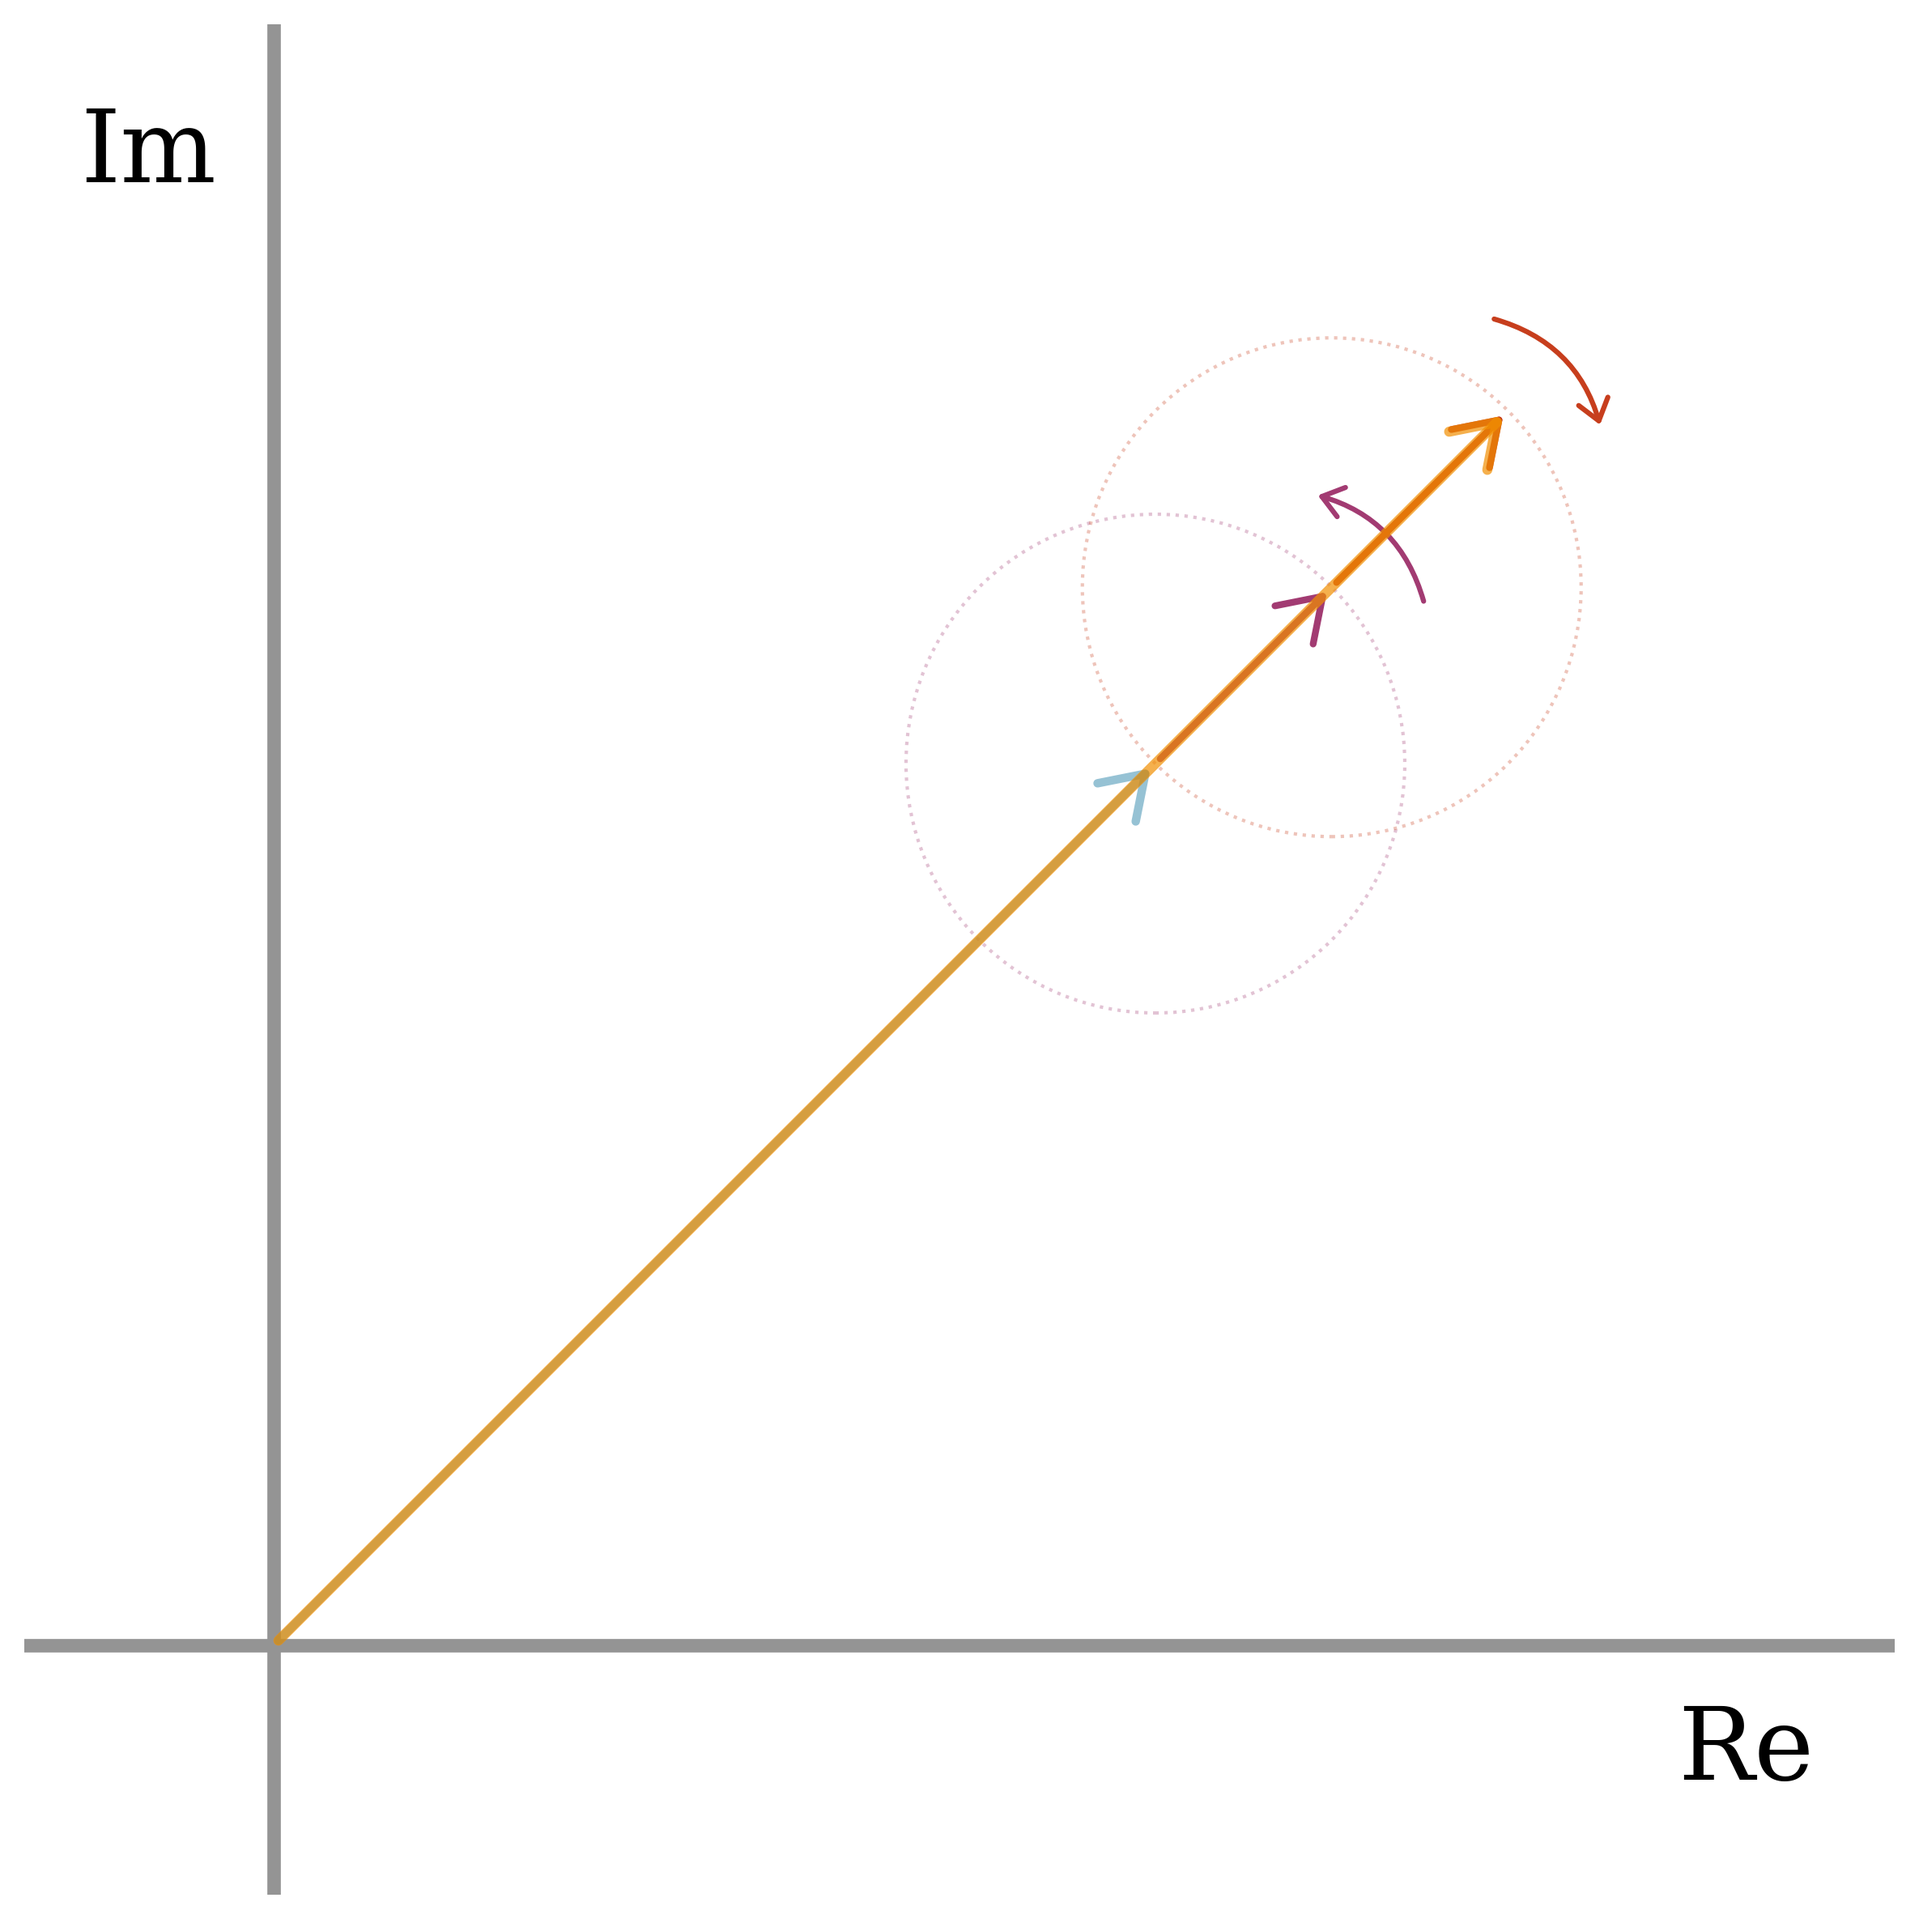
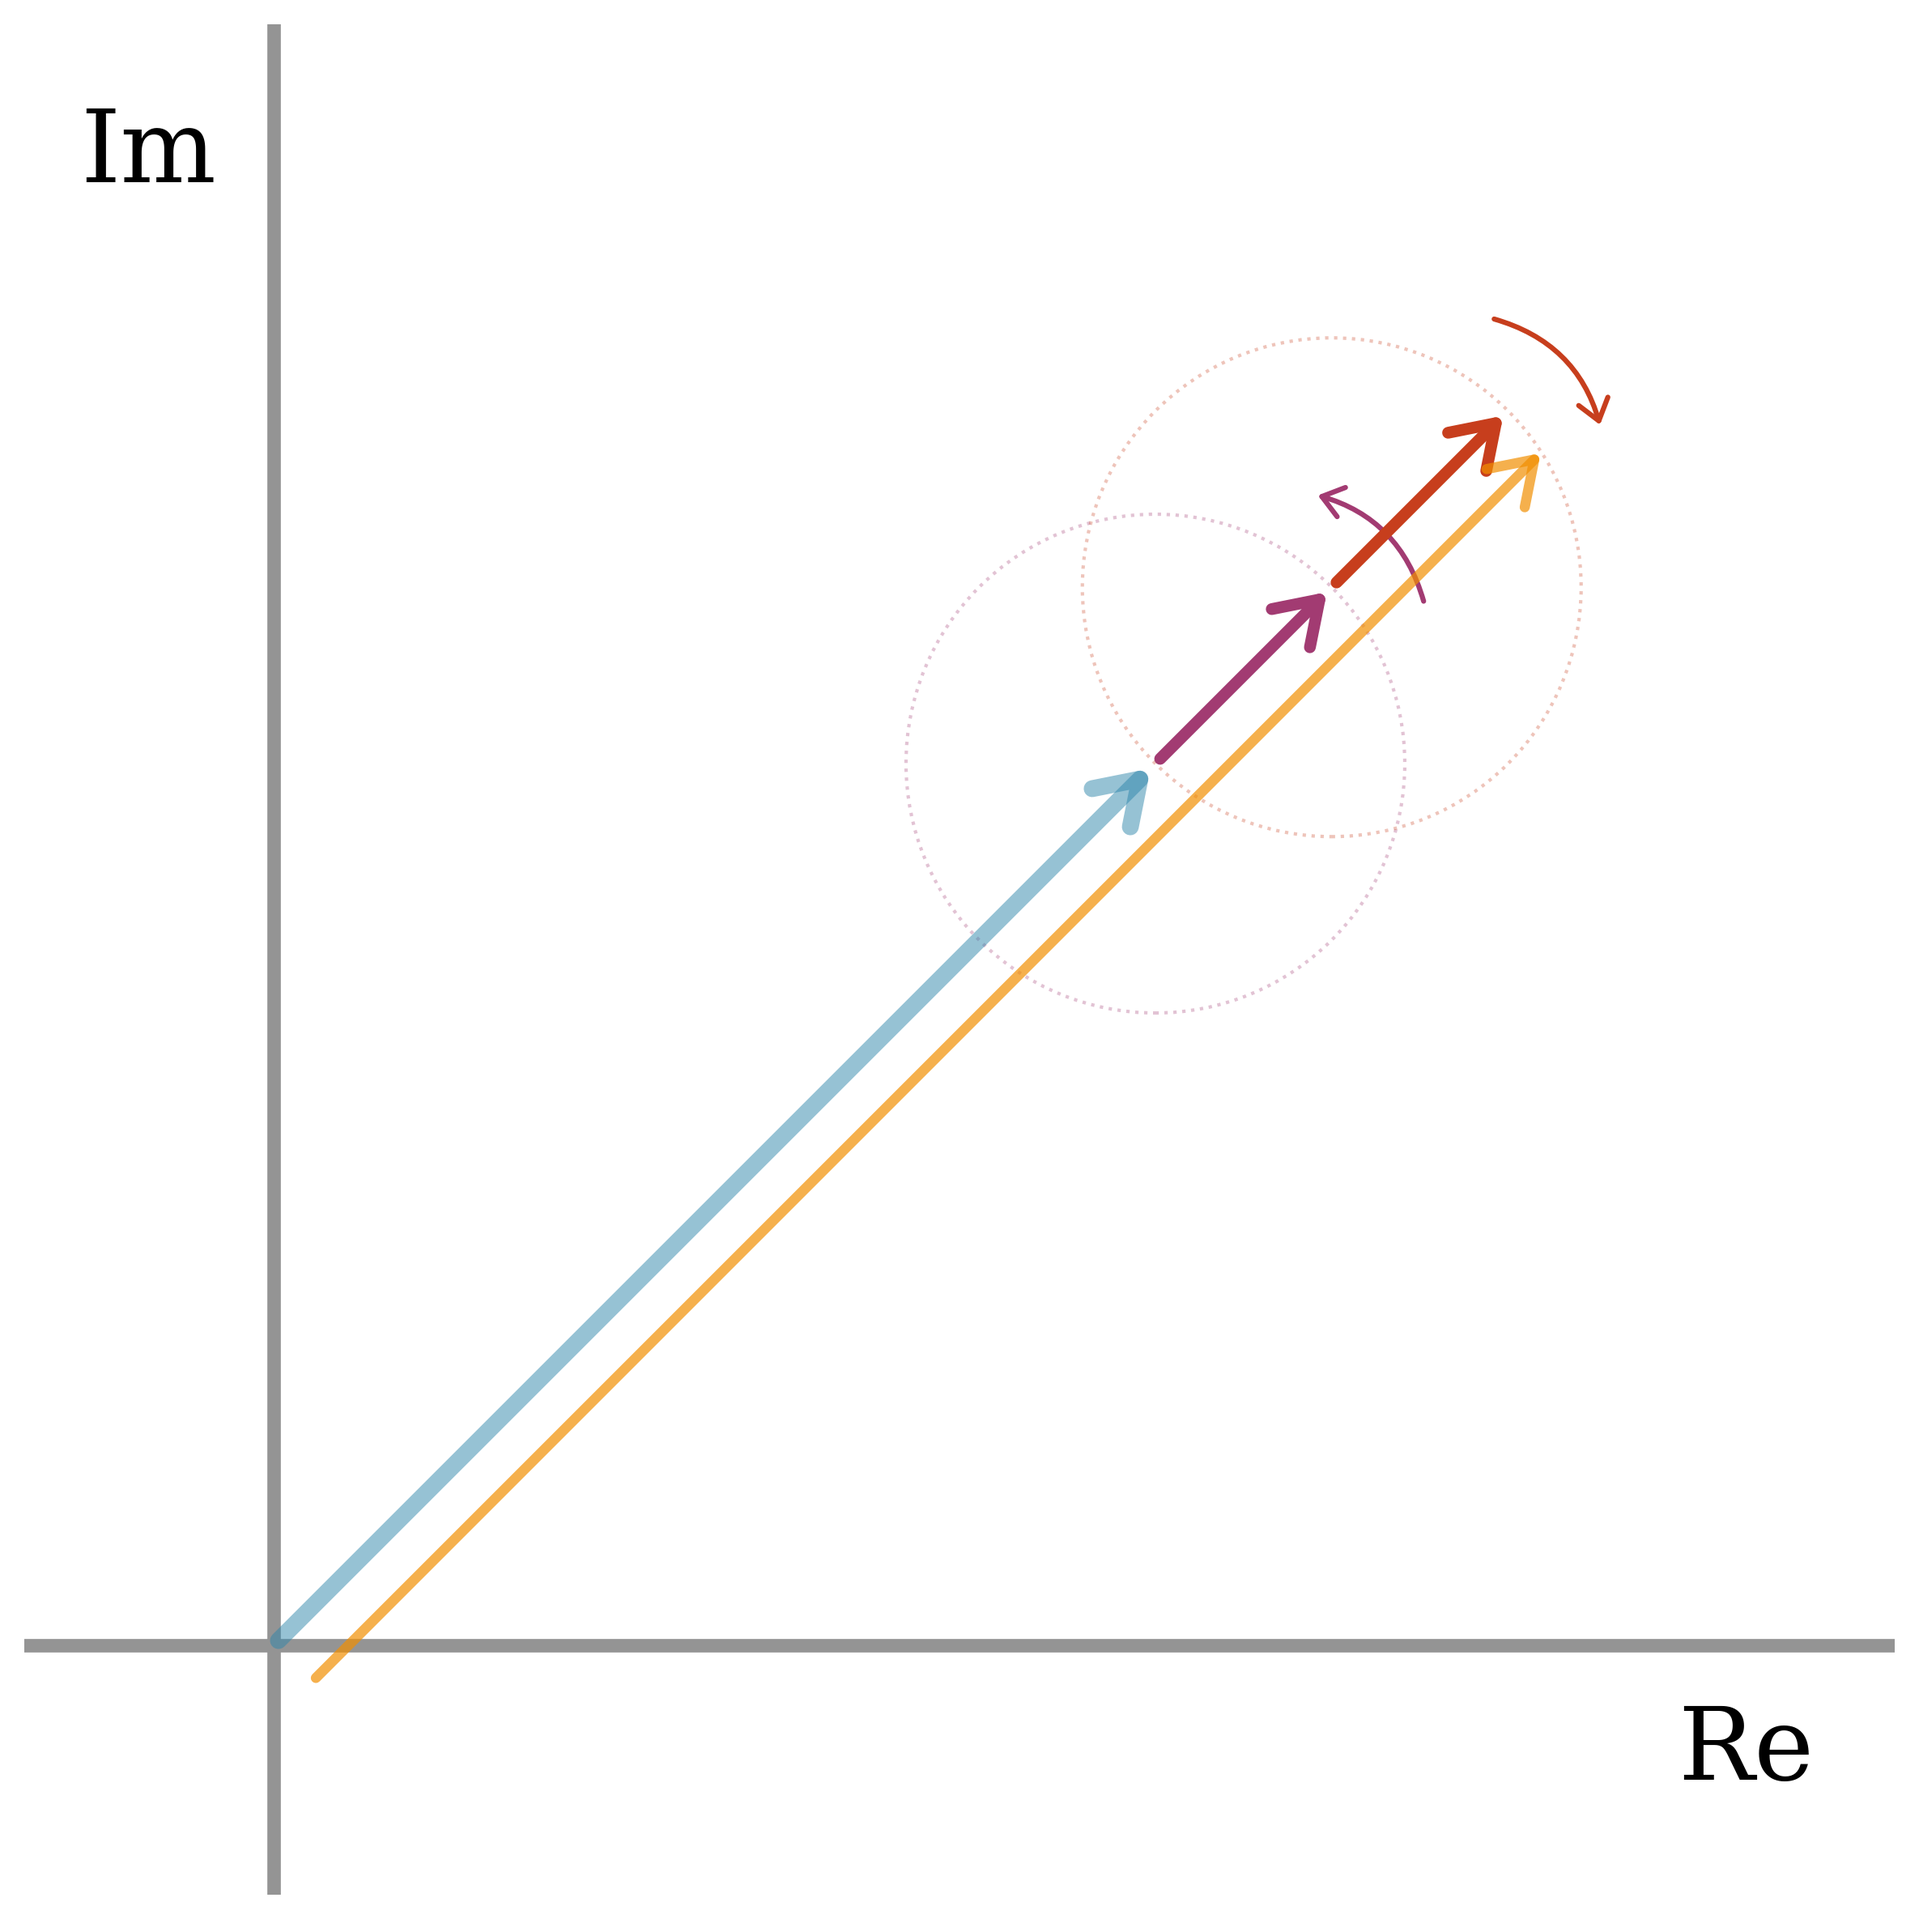
updates to the illustrations and code, 1-2 done

Changed region(s): [[0.1249, 0.2186, 0.8118, 0.8743]]

diff --git a/phasor-simulations/main.py b/phasor-simulations/main.py
@@ -85,6 +85,43 @@ def setup_plot(xlim=None, ylim=None, aspect='equal', axis_linewidth=4.0):
 
     return fig, ax
 
+def draw_square_brace(ax, center, length, angle, color='black', linewidth=2.0):
+    """
+    Draw a square brace (like a '[') at a specified position, length, and angle.
+    
+    Args:
+        ax: Matplotlib axes object
+        center: Tuple (x, y) for the center of the brace
+        length: Total length of the brace
+        angle: Angle in degrees for the orientation of the brace
+        color: Brace color
+        linewidth: Line width
+    """
+    # Calculate the main line of the brace
+    angle_rad = np.radians(angle)
+    dx = (length / 2) * np.cos(angle_rad)
+    dy = (length / 2) * np.sin(angle_rad)
+    
+    start = (center[0] - dx, center[1] - dy)
+    end = (center[0] + dx, center[1] + dy)
+    
+    # Draw the main line of the brace
+    ax.plot([start[0], end[0]], [start[1], end[1]], color=color, linewidth=linewidth, zorder=2)
+    
+    # Draw the orthogonal lines at both ends to mimic the square brace shape
+    orthogonal_angle_rad = angle_rad + np.pi / 2
+    orthogonal_length = length * 0.1  # Adjust this for the size of the orthogonal lines
+    
+    orthogonal_dx = orthogonal_length * np.cos(orthogonal_angle_rad)
+    orthogonal_dy = orthogonal_length * np.sin(orthogonal_angle_rad)
+    
+    # Start end orthogonal line
+    ax.plot([start[0], start[0] + orthogonal_dx], [start[1], start[1] + orthogonal_dy], 
+            color=color, linewidth=linewidth, zorder=2)
+    
+    # End end orthogonal line
+    ax.plot([end[0], end[0] + orthogonal_dx], [end[1], end[1] + orthogonal_dy], 
+            color=color, linewidth=linewidth, zorder=2)
 
 def draw_phasor(ax, start, end, color='#2E86AB', linewidth=2.5, alpha=1.0, label=None):
     """
@@ -364,8 +401,14 @@ def illustration_3_amplitude_modulation():
     draw_double_headed_arrow(ax, center, direction, length=0.55, color='#333333', linewidth=3.5)
     
     # Add label for the amplitude of the carrier and of the modulated signal
-    add_text(ax, (0.7, 0.25), r'$A_0$', fontsize=24, color='#2E86AB')
-    add_text(ax, (0.3, 1.0), r'$A(t) = A_0 \left( 1 + m \cos \omega_m t \right)$', fontsize=24, color='#333333')
+    add_text(ax, (0.6, 0.35), r'$A_0$', fontsize=24, color='#2E86AB')
+    add_text(ax, (0.4, 1.0), r'$A(t) = A_0 \left( 1 + m \cos \omega_m t \right)$', fontsize=24, color='#333333')
+    add_text(ax, (1.1, 0.85), r'$m \cdot A_0$', fontsize=24, color='#333333')
+
+    # Add a square brace '[' to indicate the amplitude variation, angled at 45 degrees to run parallel with the modulation direction
+    brace_center = (end_point[0] + 0.125, end_point[1] + 0.025)
+    draw_square_brace(ax, brace_center, length=0.27, angle=45, color='#333333', linewidth=2.0)
+
 
     plt.tight_layout()
     save_figure(fig, 'illustration_3_carrier_amplitude_variation')
@@ -385,14 +428,14 @@ def illustration_3_amplitude_modulation():
         # Carrier phasor at 45 degrees, magnitude 1
         carrier_angle = np.radians(45)
         carrier_end = (np.cos(carrier_angle), np.sin(carrier_angle))
-        draw_phasor(ax, (0, 0), carrier_end, color='#2E86AB', linewidth=2.5, alpha=0.5)
+        draw_phasor(ax, (0, 0), carrier_end, color='#2E86AB', linewidth=5, alpha=0.5)
         
         # Upper sideband: magnitude 0.2, starts from carrier end
         upper_angle = np.radians(angles[0])
         upper_start = carrier_end
         upper_end = (upper_start[0] + 0.2 * np.cos(upper_angle),
                      upper_start[1] + 0.2 * np.sin(upper_angle))
-        draw_phasor(ax, upper_start, upper_end, color='#A23B72', linewidth=2.0)
+        draw_phasor(ax, upper_start, upper_end, color='#A23B72', linewidth=3.5)
         
         # Draw circle for upper sideband
         draw_circle(ax, carrier_end, 0.2, color='#A23B72', linestyle=':', linewidth=1.0, alpha=0.3)
@@ -409,7 +452,7 @@ def illustration_3_amplitude_modulation():
         lower_start = upper_end
         lower_end = (lower_start[0] + 0.2 * np.cos(lower_angle),
                      lower_start[1] + 0.2 * np.sin(lower_angle))
-        draw_phasor(ax, lower_start, lower_end, color='#C73E1D', linewidth=2.0)
+        draw_phasor(ax, lower_start, lower_end, color='#C73E1D', linewidth=3.5)
         
         # Draw circle for lower sideband
         draw_circle(ax, upper_end, 0.2, color='#C73E1D', linestyle=':', linewidth=1.0, alpha=0.3)
@@ -421,7 +464,8 @@ def illustration_3_amplitude_modulation():
                          arrow_angle_lower - 15, color='#C73E1D', linewidth=1.5, direction='cw')
         
         # Resultant phasor
-        draw_phasor(ax, (0, 0), lower_end, color='#F18F01', linewidth=3.0, alpha=0.7)
+        offset = 0.03
+        draw_phasor(ax, (offset, -offset), (lower_end[0] + offset, lower_end[1] - offset), color="#000000", linewidth=3.0, alpha=0.7)
         
         plt.tight_layout()
         save_figure(fig, f'illustration_3_modulation_{chr(97+idx)}_{time_label.replace("/", "_")}')
